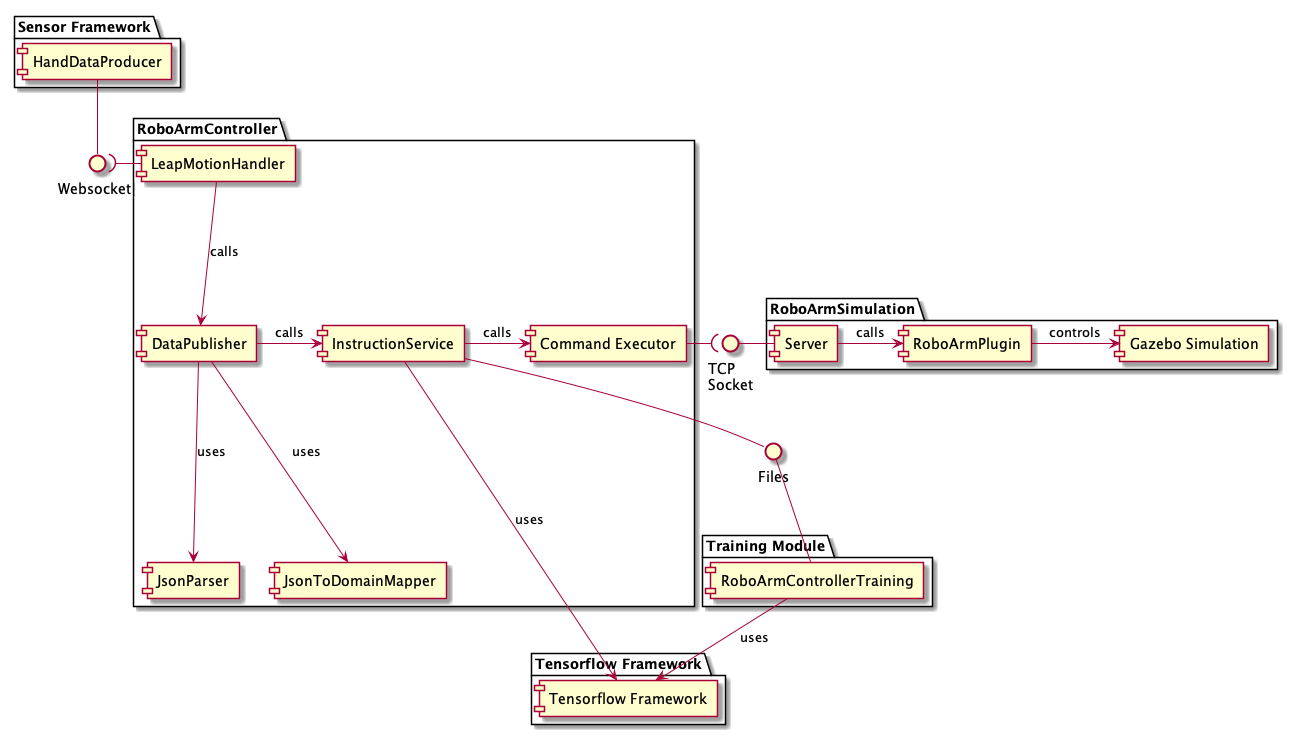
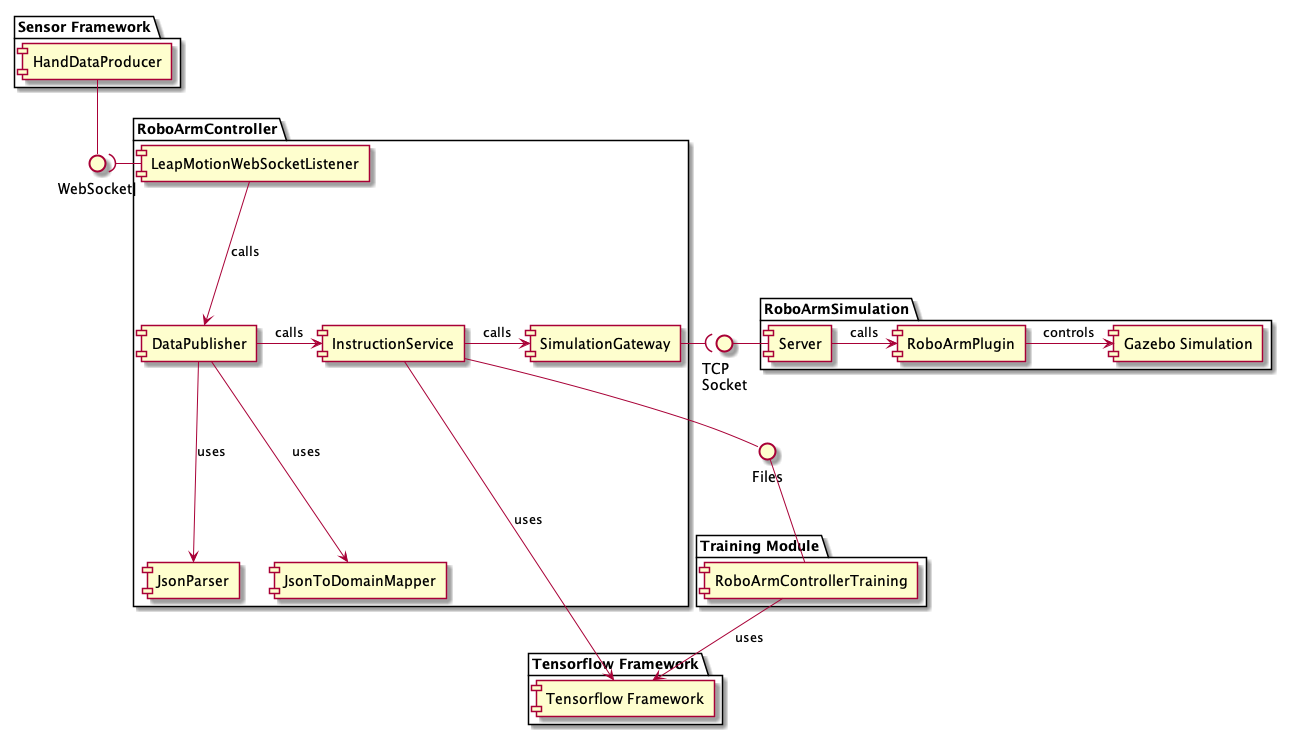
Refactored names of components

diff --git a/src/roboarmcontrollerapp/src/main/java/roboarmcontroller/domain/services/InstructionService.java b/src/roboarmcontrollerapp/src/main/java/roboarmcontroller/domain/services/InstructionService.java
@@ -6,7 +6,7 @@ import roboarmcontroller.domain.dom.Hand;
 import roboarmcontroller.domain.dom.HandType;
 import roboarmcontroller.domain.dom.InstructionLabel;
 import roboarmcontroller.domain.dom.TrackingFrame;
-import roboarmcontroller.domain.services.command.CommandExecutor;
+import roboarmcontroller.domain.services.command.SimulationGateway;
 import roboarmcontroller.domain.services.command.CommandParameters;
 
 import java.util.Optional;
@@ -16,7 +16,7 @@ public class InstructionService {
     private final Logger log = LoggerFactory.getLogger(InstructionService.class);
 
     private final int DELTA = 10;
-    private CommandExecutor commandExecutor;
+    private SimulationGateway simulationGateway;
     private TrainingService trainingService;
     private InstructionClassificationService instructionClassificationService;
 
@@ -24,11 +24,11 @@ public class InstructionService {
     private boolean trainingMode = false;
 
     public InstructionService() {
-        this(new CommandExecutor(), new TrainingService(), new InstructionClassificationService());
+        this(new SimulationGateway(), new TrainingService(), new InstructionClassificationService());
     }
 
-    public InstructionService(CommandExecutor commandExecutor, TrainingService trainingService, InstructionClassificationService instructionClassificationService) {
-        this.commandExecutor = commandExecutor;
+    public InstructionService(SimulationGateway simulationGateway, TrainingService trainingService, InstructionClassificationService instructionClassificationService) {
+        this.simulationGateway = simulationGateway;
         this.trainingService = trainingService;
         this.instructionClassificationService = instructionClassificationService;
     }
@@ -41,7 +41,7 @@ public class InstructionService {
             Optional<CommandParameters> commandParameters = this.buildParameters(trackingFrame);
             if (commandParameters.isPresent()) {
                 log.debug("Processing TrackingFrame. CommandParameters = {}", commandParameters.get());
-                this.commandExecutor.execute(commandParameters.get());
+                this.simulationGateway.send(commandParameters.get());
             }
         }
     }

diff --git a/src/roboarmcontrollerapp/src/main/java/roboarmcontroller/Application.java b/src/roboarmcontrollerapp/src/main/java/roboarmcontroller/Application.java
@@ -1,6 +1,6 @@
 package roboarmcontroller;
 
-import roboarmcontroller.communication.LeapMotionHandler;
+import roboarmcontroller.communication.LeapMotionWebSocketListener;
 
 import java.net.URI;
 import java.net.URISyntaxException;
@@ -15,9 +15,9 @@ public class Application {
             // TODO: Extract to properties config file
             uri = new URI("ws://localhost:6437/v7.json");
 
-            LeapMotionHandler leapMotionHandler = new LeapMotionHandler(uri);
+            LeapMotionWebSocketListener leapMotionWebSocketListener = new LeapMotionWebSocketListener(uri);
 
-            leapMotionHandler.startListener();
+            leapMotionWebSocketListener.startListener();
         } catch (URISyntaxException e) {
             e.printStackTrace();
         }

diff --git a/src/roboarmcontrollerapp/src/main/java/roboarmcontroller/domain/services/command/SimulationGateway.java b/src/roboarmcontrollerapp/src/main/java/roboarmcontroller/domain/services/command/SimulationGateway.java
@@ -8,16 +8,16 @@ import java.io.OutputStream;
 import java.net.Socket;
 import java.nio.ByteBuffer;
 
-public class CommandExecutor {
+public class SimulationGateway {
     private final static int SERVER_PORT = 52333;
     private final static String SERVER_HOST = "localhost";
 
-    private final Logger log = LoggerFactory.getLogger(CommandExecutor.class);
+    private final Logger log = LoggerFactory.getLogger(SimulationGateway.class);
     private OutputStream output;
     private int[] intData = new int[2];
     private byte[] bytes = new byte[intData.length * 4];
 
-    public void execute(CommandParameters commandParameters) {
+    public void send(CommandParameters commandParameters) {
         if (output == null) {
             this.initSocket();
         }

diff --git a/src/roboarmcontrollerapp/src/main/java/roboarmcontroller/communication/LeapMotionWebSocketListener.java b/src/roboarmcontrollerapp/src/main/java/roboarmcontroller/communication/LeapMotionWebSocketListener.java
@@ -7,12 +7,12 @@ import org.slf4j.LoggerFactory;
 
 import java.net.URI;
 
-public class LeapMotionHandler extends WebSocketClient {
-    private final Logger log = LoggerFactory.getLogger(LeapMotionHandler.class);
+public class LeapMotionWebSocketListener extends WebSocketClient {
+    private final Logger log = LoggerFactory.getLogger(LeapMotionWebSocketListener.class);
 
     private DataPublisher dataPublisher = new DataPublisher();
 
-    public LeapMotionHandler(URI uri) {
+    public LeapMotionWebSocketListener(URI uri) {
         super(uri);
     }
 

diff --git a/src/roboarmcontrollerapp/src/test/java/roboarmcontroller/file/TrainingSetWriterTest.java b/src/roboarmcontrollerapp/src/test/java/roboarmcontroller/file/TrainingSetWriterTest.java
@@ -31,11 +31,11 @@ class TrainingSetWriterTest {
         hand.setFingers(Arrays.asList(finger1, finger2));
 
         String line = trainingSetWriter.getLine(hand);
-        assertEquals("RIGHT|0.1111|0.2222|0.3333|0.4|0.5|0.6", line);
+        assertEquals("1|0.1111|0.2222|0.3333|0.4|0.5|0.6", line);
 
         hand.setType(HandType.LEFT);
         line = trainingSetWriter.getLine(hand);
-        assertEquals("LEFT|0.1111|0.2222|0.3333|0.4|0.5|0.6", line);
+        assertEquals("0|0.1111|0.2222|0.3333|0.4|0.5|0.6", line);
 
     }
 }
